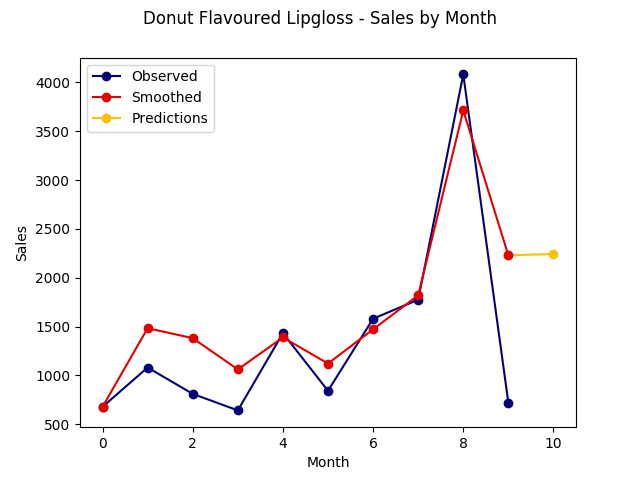
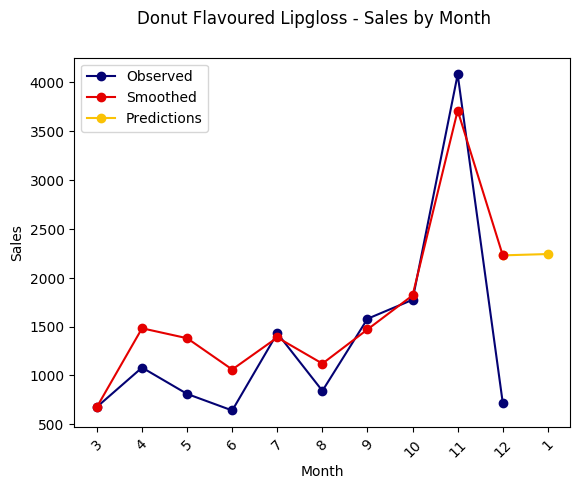
better graphing

Changed region(s): [[0.0, 0.0938, 0.988, 1.0], [0.2161, 0.0, 0.8336, 0.0625], [0.9571, 0.8438, 0.988, 0.875]]

diff --git a/project/implementation.py b/project/implementation.py
@@ -4,89 +4,39 @@ import matplotlib
 matplotlib.use('Agg')
 import matplotlib.pyplot as plt
 
-df = pd.read_excel('Online_Retail.xlsx', index_col=0)
 
-# Create columns 
-df['Year'] = pd.DatetimeIndex(df['InvoiceDate']).year
-df['Month'] = pd.DatetimeIndex(df['InvoiceDate']).month
-df['Quarter'] = pd.DatetimeIndex(df['InvoiceDate']).quarter
-df['Revenue'] = df['Quantity'] * df['UnitPrice']
-
-#Revenue by time hierarchies
-monthly_data = df.groupby(['StockCode', 'Year', 'Month'])['Revenue'].sum()
-monthly = list(monthly_data)
-quarter_data = df.groupby(['Year', 'Quarter'])['Revenue'].sum()
-quarter = list(quarter_data)
-
-# all items monthly 
-fig = plt.figure("monthly")
-plt.plot(monthly, 'bo-') 
-plt.savefig("monthly.png")
-
-# all items quarterly
-fig = plt.figure("quarterly")
-plt.plot(quarter, 'bo-') 
-plt.savefig("quarterly.png")
-
-# monthly for stock code 85049C
-monthly_data_ribbons = monthly_data['85049C']
-fig = plt.figure("monthly")
-#fig.set_title("Romantic pinks ribbons sales by month")
-plt.plot(list(monthly_data_ribbons), 'bo-') 
-plt.savefig("monthly.png")
-plt.close()
-
-# donut lip gloss 23077
-monthly_data_lipgloss = monthly_data[23077]
-smoothed_monthly_lipgloss = double_exponential_smoothing(monthly_data_lipgloss, 0.5, 0.5)
-fig = plt.figure("monthly")
-fig.suptitle("Romantic pinks ribbons sales by month")
-salesplt, = plt.plot(list(monthly_data_lipgloss), 'o-', c="blue", label="Sales Records") 
-predicplt, = plt.plot([9, 10], list(smoothed_monthly_lipgloss)[-2:], 'o-', c="green", label="Smoothed Sales Records With Future Prediction") 
-smoothplt, = plt.plot(list(smoothed_monthly_lipgloss)[:-1], 'o-', c="red", label="Smoothed Sales Records With Future Prediction") 
-plt.legend([salesplt, smoothplt, predicplt], ["Observed", "Smoothed", "Predictions"])
-plt.xlabel("Month")
-plt.ylabel("Sales")
-plt.savefig("monthly.png")
-plt.close()
-
-#-------------------------------------------------------------
-# METHODS FOR DETERMING THE NEXT POINT IN THE SERIES...
-# Method 1: Arithmetic mean
 def avg(series):
     s = sum(series)
     l = len(series)
     return float(s/l)
 
-# Method 2: Moving average. Average over the last n points in the series.
 def moving_avg(series, n):
+    # avg last n points in series
     return avg(series[-n:])
     
-# Method 3:Weighted moving average. 
-# Points are weighted so that some contribute more to the calculation.
-# Weights is a list of weights that add up to 1. ex: [0.2, 0.3, 0.4, 0.1]
 def weighted_avg(series, weights):
+    # Points are weighted so that some contribute more to the calculation.
+    # Weights is a list of weights that add up to 1. ex: [0.2, 0.3, 0.4, 0.1]
     avg = 0.0
     weights.reverse()
     for n in range(len(weights)):
         avg += series[-n-1] * weights[n]
     return avg
 
-# Method 4: Exponential smoothing.
-# Calculates the next point using the formula: alpha*y_x + (1-alpha)*y_x-1
-# Where y_x is the current value in the seires, y_x-1 is the expected value 
-# of the previous point in the series, and alpha is a value between 0-1
-# For our series, a higher value of alpha (0.9) seems to work best
 def exponential_smoothing(series, alpha):
+    # Calculates the next point using the formula: alpha*y_x + (1-alpha)*y_x-1
+    # Where y_x is the current value in the seires, y_x-1 is the expected value 
+    # of the previous point in the series, and alpha is a value between 0-1
+    # For our series, a higher value of alpha (0.9) seems to work best
     result = [series[0]] # first value is same as series
     for n in range(1, len(series)):
         result.append(alpha * series[n] + (1 - alpha) * result[n-1])
     return result
 
-# Method 5: Double exponential smoothing
-# Calculates the next point using three formulas: one for trend, one for level
-# and one for the forecast
 def double_exponential_smoothing(series, alpha, beta):
+    # Method 5: Double exponential smoothing
+    # Calculates the next point using three formulas: one for trend, one for level
+    # and one for the forecast
     """
     Series: list of values - e.g. sales data
     alpha: 0 > float > 1            0.1, 0.5, 0.9 are vals supplied in paper
@@ -108,6 +58,39 @@ def double_exponential_smoothing(series, alpha, beta):
         result.append(level+trend)
     return result
 
-#Method 6: Triple exponential smoothing
-#-------------------------------------------------------------
-# GRAPHING METHODS
+
+df = pd.read_excel('Online_Retail.xlsx', index_col=0)
+
+# Create columns 
+df['Year'] = pd.DatetimeIndex(df['InvoiceDate']).year
+df['Month'] = pd.DatetimeIndex(df['InvoiceDate']).month
+df['Quarter'] = pd.DatetimeIndex(df['InvoiceDate']).quarter
+df['Revenue'] = df['Quantity'] * df['UnitPrice']
+#df['Datestring'] = df['Year'].map(str) + " " + df['Month'].map(str)  # for plotting
+
+#Revenue by time hierarchies
+#monthly_data = df.groupby(['StockCode', 'Country', 'Year', 'Month'])['Revenue'].sum()
+monthly_data = df.groupby(['StockCode', 'Year', 'Month'])['Revenue'].sum()
+monthly = list(monthly_data)
+quarter_data = df.groupby(['Year', 'Quarter'])['Revenue'].sum()
+quarter = list(quarter_data)
+
+# donut lip gloss: stock code=23077
+lipgloss_df = df[df['StockCode'] == 23077]
+lipgloss_monthly = lipgloss_df.groupby(['StockCode', 'Year', 'Month'])['Revenue'].sum()
+lipgloss_xlabels = [str(x) for x in lipgloss_monthly.index.levels[2]]
+smoothed_monthly_lipgloss = double_exponential_smoothing(lipgloss_monthly, 0.5, 0.5)
+
+# plotting for lip gloss
+fig = plt.figure("monthly")
+fig.suptitle("Donut Flavoured Lipgloss - Sales by Month")
+salesplt, = plt.plot(lipgloss_xlabels, list(lipgloss_monthly), 'o-', c="xkcd:deep blue") 
+predicplt, = plt.plot(lipgloss_xlabels[-1:] + ['1'], list(smoothed_monthly_lipgloss)[-2:], 'o-', c="xkcd:goldenrod") 
+smoothplt, = plt.plot(lipgloss_xlabels, list(smoothed_monthly_lipgloss)[:-1], 'o-', c="xkcd:red") 
+plt.legend([salesplt, smoothplt, predicplt], ["Observed", "Smoothed", "Predictions"])
+plt.xlabel("Month")
+plt.xticks(lipgloss_xlabels + ['1'], rotation=45)
+plt.ylabel("Sales")
+plt.savefig("monthly_lipgloss.png", bbox_inches='tight')
+plt.close()
+
